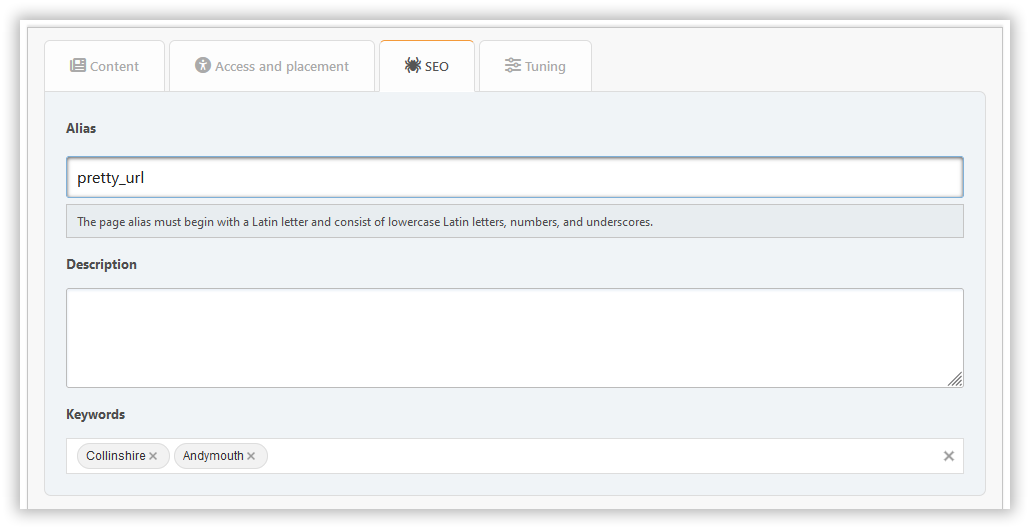
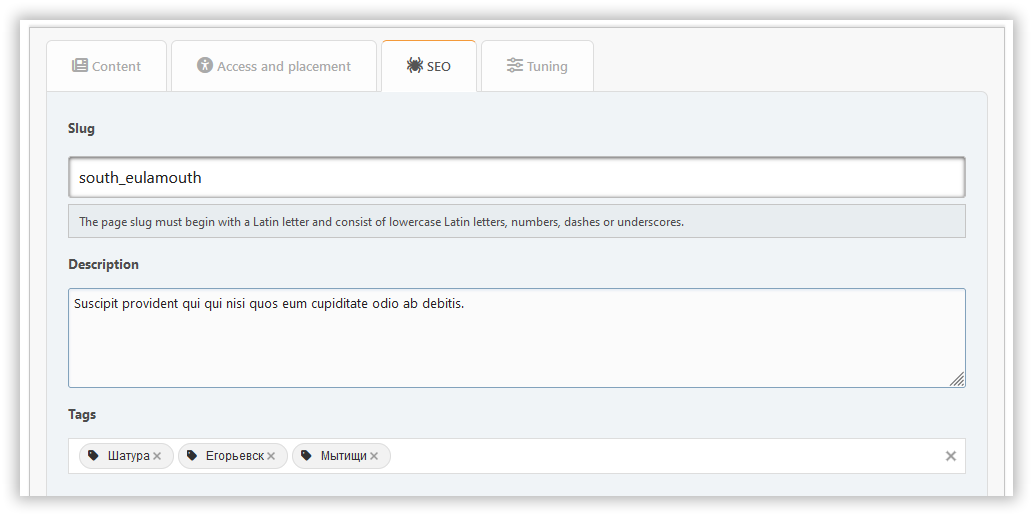
Update docs

diff --git a/docs/.vitepress/locales/it.js b/docs/.vitepress/locales/it.js
@@ -8,29 +8,29 @@ export default {
     nav: [
       {
         text: 'Inizio',
-        link: '/',
+        link: '/'
       },
       {
         text: 'Introduzione',
-        link: '/intro',
+        link: '/intro'
       },
       {
         text: 'Esempi',
-        link: '/examples',
+        link: '/examples'
       },
       {
         text: 'Demo',
-        link: 'https://demo.dragomano.ru/',
+        link: 'https://demo.dragomano.ru/'
       },
       {
         text: 'Changelog',
-        link: '/changelog',
-      },
+        link: '/changelog'
+      }
     ],
     outline: { label: 'In questa pagina' },
     docFooter: {
       prev: 'Pagina precedente',
-      next: 'Pagina successiva',
+      next: 'Pagina successiva'
     },
     darkModeSwitchLabel: 'Aspetto',
     lightModeSwitchTitle: 'Passa al tema chiaro',
@@ -40,17 +40,16 @@ export default {
     langMenuLabel: 'Cambia lingua',
     notFound: {
       title: 'PAGINA NON TROVATA',
-      quote:
-        'Ma se non cambi direzione e se continui a guardare, potresti finire dove stai andando.',
+      quote: 'Ma se non cambi direzione e se continui a guardare, potresti finire dove stai andando.',
       linkLabel: 'Vai alla home',
-      linkText: 'Vai alla Home',
+      linkText: 'Vai alla Home'
     },
     search: {
       options: {
         translations: {
           button: {
             buttonText: 'Cerca',
-            buttonAriaLabel: 'Cerca',
+            buttonAriaLabel: 'Cerca'
           },
           modal: {
             displayDetails: 'Visualizza lista dettagliata',
@@ -60,11 +59,11 @@ export default {
             footer: {
               selectText: 'seleziona',
               navigateText: 'naviga',
-              closeText: 'chiudi',
-            },
-          },
-        },
-      },
-    },
-  },
+              closeText: 'chiudi'
+            }
+          }
+        }
+      }
+    }
+  }
 };

diff --git a/docs/src/ru/pages/manage.md b/docs/src/ru/pages/manage.md
@@ -5,9 +5,9 @@ order: 1
 
 # Управление страницами
 
-В этом разделе перечислены все созданные страницы портала, доступные для редактирования текущему пользователю. Есть поиск страниц по заголовку или алиасу.
+В этом разделе перечислены все созданные страницы портала, доступные для редактирования текущему пользователю. Есть поиск страниц по заголовку или слагу.
 
-Для каждой страницы отображаются её идентификатор, дата создания/обновления, количество просмотров, количество комментариев, тип, алиас, заголовок и список действий.
+Для каждой страницы отображаются её идентификатор, дата создания/обновления, количество просмотров, количество комментариев, тип, слаг, заголовок и список действий.
 
 ![Управление страницами](manage_pages.png)
 

diff --git a/docs/src/el/pages/manage.md b/docs/src/el/pages/manage.md
@@ -5,7 +5,7 @@ order: 1
 
 # Διαχείριση σελίδων
 
-Αυτή η ενότητα παραθέτει όλες τις δημιουργημένες σελίδες πύλης που μπορούν να επεξεργαστούν από τον τρέχοντα χρήστη. Υπάρχει αναζήτηση για σελίδες ανά τίτλο ή ψευδώνυμο.
+Αυτή η ενότητα παραθέτει όλες τις δημιουργημένες σελίδες πύλης που μπορούν να επεξεργαστούν από τον τρέχοντα χρήστη. Γίνεται αναζήτηση για σελίδες ανά τίτλο ή ψευδώνυμο.
 
 Για κάθε σελίδα, εμφανίζεται το αναγνωριστικό, η ημερομηνία δημιουργίας/ενημέρωσης, ο αριθμός προβολών, ο αριθμός σχολίων, ο τύπος, το ψευδώνυμο, ο τίτλος και η λίστα ενεργειών.
 

diff --git a/docs/src/el/glossary.md b/docs/src/el/glossary.md
@@ -12,7 +12,7 @@ description: Μια λίστα βασικών σχεδίων που χρησιμ
 
 ## σελίδα
 
-Οι σελίδες είναι περιεχόμενο που δημιουργείται από χρήστες και διατίθεται στη διεύθυνση `https://{your_forum}?σελίδα={page_alias}`. Κάθε χρήστης με τα κατάλληλα δικαιώματα μπορεί να δημιουργήσει σελίδες.
+Οι σελίδες είναι περιεχόμενο που δημιουργείται από χρήστες και διατίθεται στη διεύθυνση `https://{your_domain}?page={slug}`. Κάθε χρήστης με τα κατάλληλα δικαιώματα μπορεί να δημιουργήσει σελίδες.
 
 ## πρόσθετα
 

diff --git a/docs/src/it/pages/manage.md b/docs/src/it/pages/manage.md
@@ -5,9 +5,9 @@ order: 1
 
 # Gestisci pagine
 
-Questa sezione elenca tutte le pagine del portale create che possono essere modificate dall'utente corrente. È possibile cercare le pagine per titolo o per alias.
+Questa sezione elenca tutte le pagine del portale create che possono essere modificate dall'utente corrente. È possibile cercare le pagine per titolo o per slug.
 
-Per ogni pagina vengono visualizzati l'ID, la data di creazione/aggiornamento, il numero di visualizzazioni, il numero di commenti, il tipo, l'alias, il titolo e l'elenco delle azioni.
+Per ogni pagina vengono visualizzati l'ID, la data di creazione/aggiornamento, il numero di visualizzazioni, il numero di commenti, il tipo, lo slug, il titolo e l'elenco delle azioni.
 
 ![Manage pages](manage_pages.png)
 

diff --git a/docs/src/el/getting-started/installation.md b/docs/src/el/getting-started/installation.md
@@ -12,7 +12,7 @@ order: 1
 - [SMF 2.1.x](https://download.simplemachines.org)
 - Σύγχρονο πρόγραμμα περιήγησης με ενεργοποιημένη JavaScript
 - Διαδίκτυο (η πύλη και πολλές προσθήκες φορτώνουν σενάρια και στυλ από το CDN)
-- PHP 8.0 ή υψηλότερη
+- PHP 8.1 ή νεώτερη
 - Επέκταση PHP `intl` για τον σωστό εντοπισμό ορισμένων συμβολοσειρών γλώσσας
 - Επεκτάσεις PHP «dom» και «simplexml» για εξαγωγή/εισαγωγή σελίδων και μπλοκ
 - Επέκταση PHP `zip` για εξαγωγή/εισαγωγή προσθηκών

diff --git a/docs/src/ru/getting-started/installation.md b/docs/src/ru/getting-started/installation.md
@@ -12,7 +12,7 @@ order: 1
 - [SMF 2.1.x](https://download.simplemachines.org)
 - Современный браузер с включенным JavaScript
 - Интернет (портал и многие плагины подгружают скрипты и стили с CDN)
-- PHP 8.0 или выше
+- PHP 8.1 или выше
 - PHP-расширение `intl` для правильной локализации некоторых языковых строчек
 - PHP-расширения `dom` и `simplexml` для экспорта/импорта страниц и блоков
 - PHP-расширение `zip` для экспорта/импорта плагинов

diff --git a/docs/src/it/getting-started/installation.md b/docs/src/it/getting-started/installation.md
@@ -12,7 +12,7 @@ Non c'è molto da dire qui. Light Portal puoi installarlo come qualsiasi altra m
 - [SMF 2.1.x](https://download.simplemachines.org)
 - Browser moderno con JavaScript abilitato
 - Internet (il portale e molti plugin caricano script e stili dalla CDN)
-- PHP 8.0 o superiore
+- PHP 8.1 o superiore
 - Estensione PHP `intl` per localizzare correttamente alcune stringhe di lingua
 - Estensioni PHP `dom` e `simplexml` per esportare/importare pagine e blocchi
 - Estensione PHP `zip` per esportare/importare plugin

diff --git a/docs/src/el/pages/create-new.md b/docs/src/el/pages/create-new.md
@@ -31,7 +31,7 @@ order: 2
 
 Εδώ μπορείτε να διαμορφώσετε:
 
-- ψευδώνυμο — η σελίδα θα είναι διαθέσιμη στη διεύθυνση `?page=alias`
+- Ψευδώνυμο — είναι το τμήμα της διεύθυνσης URL της σελίδας (`?page=slug`)
 - περιγραφή — η μετα-περιγραφή
 - ετικέτες — θα εμφανίζονται ως ετικέτες σελίδας και ως λέξεις-κλειδιά meta
 

diff --git a/docs/src/it/glossary.md b/docs/src/it/glossary.md
@@ -12,7 +12,7 @@ I blocchi sono elementi `a parte` che contengono al loro interno contenuti perso
 
 ## pagina
 
-Le pagine sono contenuti generati dagli utenti disponibili su `https://{your_forum}?page={page_alias}`. Qualsiasi utente con le autorizzazioni appropriate può creare pagine.
+Le pagine sono contenuti generati dagli utenti disponibili su `https://{your_domain}?page={slug}`. Qualsiasi utente con le autorizzazioni appropriate può creare pagine.
 
 ## plugin
 

diff --git a/docs/src/ru/pages/create-new.md b/docs/src/ru/pages/create-new.md
@@ -31,7 +31,7 @@ order: 2
 
 Здесь можно настроить:
 
-- алиас — странца будет доступна по адресу `?page=alias`
+- слаг— часть URL-адреса страницы (`?page=slug`)
 - описание — meta description
 - теги — будут отображаться как теги страницы и ключевые слова
 
